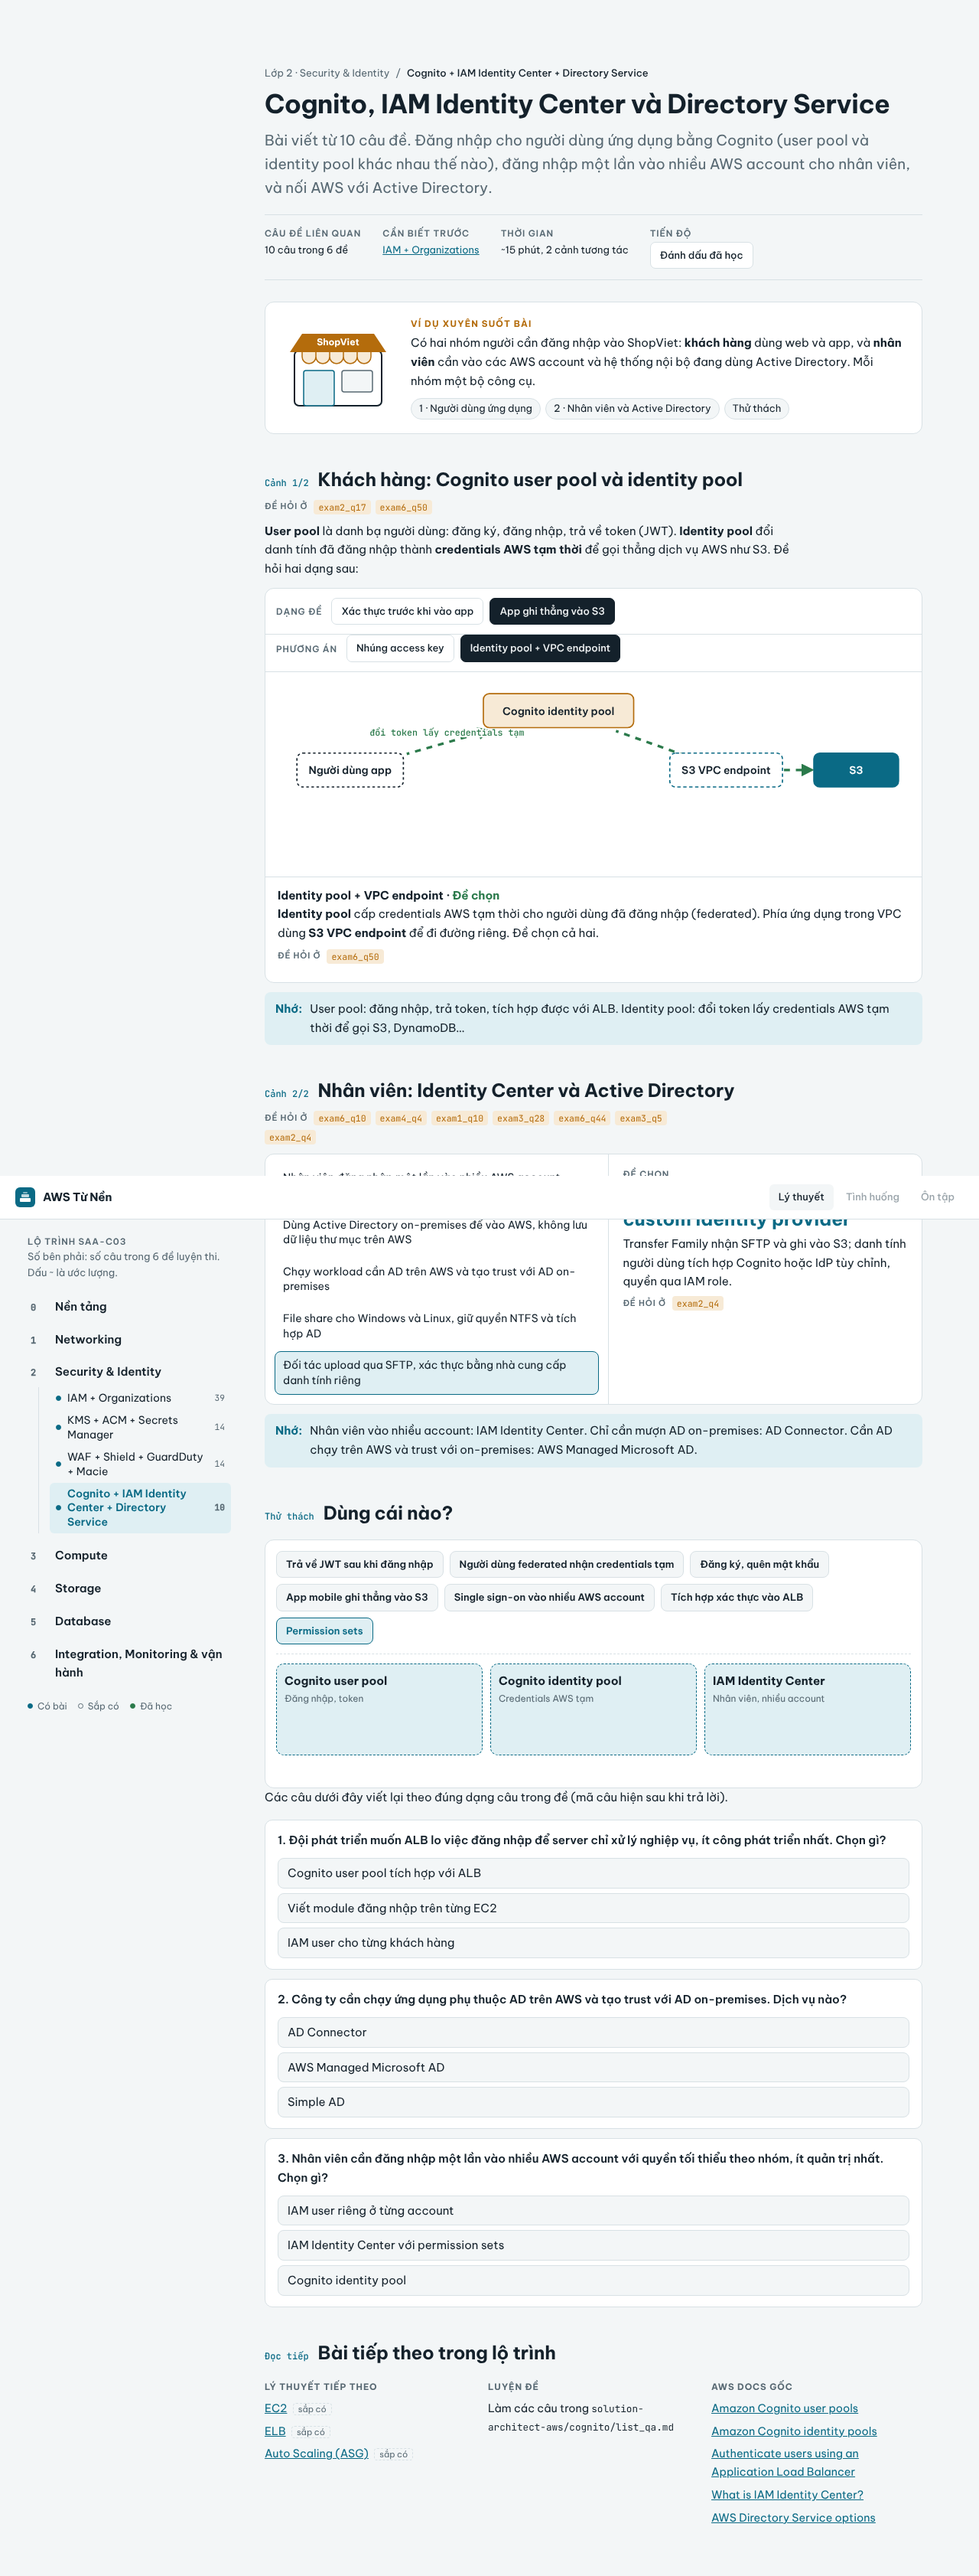
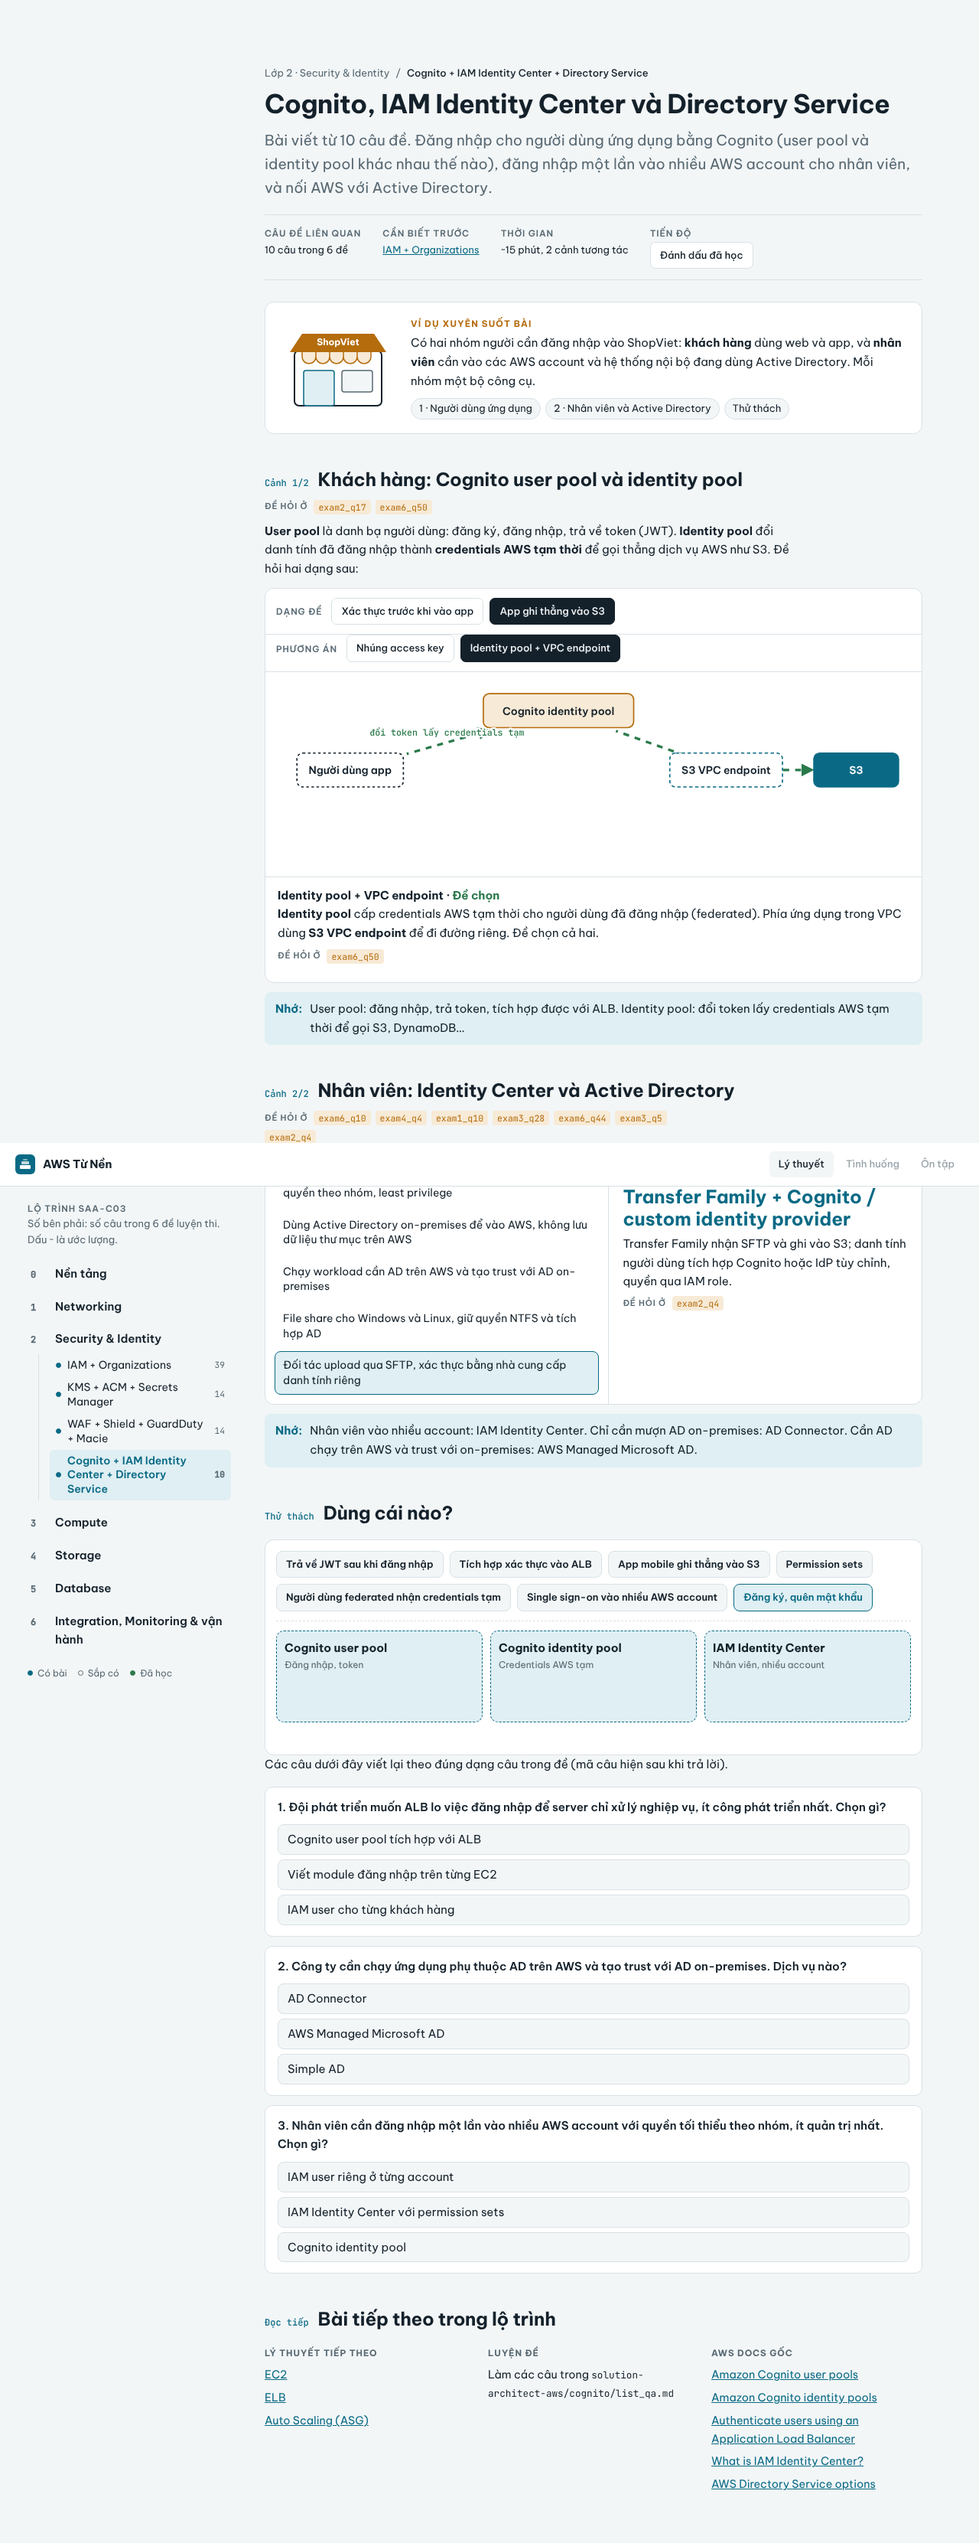
Draw flow labels above nodes and fix diagram layouts
Flow labels now render in their own layer on top of the boxes and sit
on the longest segment of a flow, so short connections no longer hide
them. Storage Gateway and MGN diagrams are re-laid out so flows do not
cross unrelated boxes.

Claude-Session: https://claude.ai/code/session_01HT8UEP4eQv8VJvmhkwk3hE

diff --git a/aws-cloud/site/src/components/scenes/diagram.tsx b/aws-cloud/site/src/components/scenes/diagram.tsx
@@ -120,7 +120,7 @@ export function Nodes({ nodes, hidden = [], pop = [] }: { nodes: DNode[]; hidden
   );
 }
 
-export function Flows({ id, nodes, flows }: { id: string; nodes: Record<string, DNode>; flows: DFlow[] }) {
+export function Flows({ id, nodes, flows, part = "lines" }: { id: string; nodes: Record<string, DNode>; flows: DFlow[]; part?: "lines" | "labels" }) {
   return (
     <>
       {flows.map((f, i) => {
@@ -132,19 +132,28 @@ export function Flows({ id, nodes, flows }: { id: string; nodes: Record<string, 
           cross = [p[0] + (q[0] - p[0]) * 0.66, p[1] + (q[1] - p[1]) * 0.66];
           pts = [...pts.slice(0, -1), cross];
         }
-        const d = "M" + pts.map((p) => `${p[0].toFixed(1)} ${p[1].toFixed(1)}`).join(" L");
         const tone = f.blocked ? "bad" : f.tone ?? "neutral";
-        const [a, b] = [pts[0], pts[1]];
-        const horizontal = Math.abs(b[0] - a[0]) >= Math.abs(b[1] - a[1]);
+        if (part === "labels") {
+          if (!f.label) return null;
+          // Label the longest segment so it sits clear of the boxes at either end.
+          let best = 0, len = -1;
+          for (let k = 0; k < pts.length - 1; k++) {
+            const l = Math.hypot(pts[k + 1][0] - pts[k][0], pts[k + 1][1] - pts[k][1]);
+            if (l > len) { len = l; best = k; }
+          }
+          const [a, b] = [pts[best], pts[best + 1]];
+          const horizontal = Math.abs(b[0] - a[0]) >= Math.abs(b[1] - a[1]);
+          return (
+            <text key={i} className={`flow-t tone-${tone}`} x={(a[0] + b[0]) / 2 + (horizontal ? 0 : 8)} y={(a[1] + b[1]) / 2 - (horizontal ? 8 : 0)}
+              textAnchor={horizontal ? "middle" : "start"}>{f.label}</text>
+          );
+        }
+        const d = "M" + pts.map((p) => `${p[0].toFixed(1)} ${p[1].toFixed(1)}`).join(" L");
         return (
           <g key={i}>
             <path className={`flow tone-${tone}${f.heavy ? " heavy" : ""}${f.dashed || f.blocked ? " still" : ""}`} d={d}
               markerEnd={cross ? undefined : `url(#${id}-${tone})`} />
             {cross && <text className="block-x" x={cross[0]} y={cross[1] + 6} textAnchor="middle">✕</text>}
-            {f.label && (
-              <text className={`flow-t tone-${tone}`} x={(a[0] + b[0]) / 2 + (horizontal ? 0 : 8)} y={(a[1] + b[1]) / 2 - (horizontal ? 8 : 0)}
-                textAnchor={horizontal ? "middle" : "start"}>{f.label}</text>
-            )}
           </g>
         );
       })}

diff --git a/aws-cloud/site/src/components/scenes/StepSim.tsx b/aws-cloud/site/src/components/scenes/StepSim.tsx
@@ -62,6 +62,7 @@ export default function StepSim({ nodes, boxes = [], initial, intro, steps, heig
           <Boxes boxes={boxes} />
           <g key={done}><Flows id={uid} nodes={byId} flows={flows} /></g>
           <Nodes nodes={nodes} hidden={nodes.filter((n) => !visible.has(n.id)).map((n) => n.id)} pop={justShown} />
+          <g key={"l" + done}><Flows id={uid} nodes={byId} flows={flows} part="labels" /></g>
           <g ref={pk} />
         </svg>
       </div>

diff --git a/aws-cloud/site/src/components/scenes/ScenarioFlow.tsx b/aws-cloud/site/src/components/scenes/ScenarioFlow.tsx
@@ -56,6 +56,7 @@ export default function ScenarioFlow({ scenarios, height = 260, legend = ["Đề
           <Boxes boxes={s.boxes ?? []} />
           <g key={`${si}-${oi}`}><Flows id={uid} nodes={byId} flows={o.flows} /></g>
           <Nodes nodes={s.nodes} hidden={o.hide} />
+          <g key={"l" + `${si}-${oi}`}><Flows id={uid} nodes={byId} flows={o.flows} part="labels" /></g>
         </svg>
       </div>
       <div className="readout" aria-live="polite">
